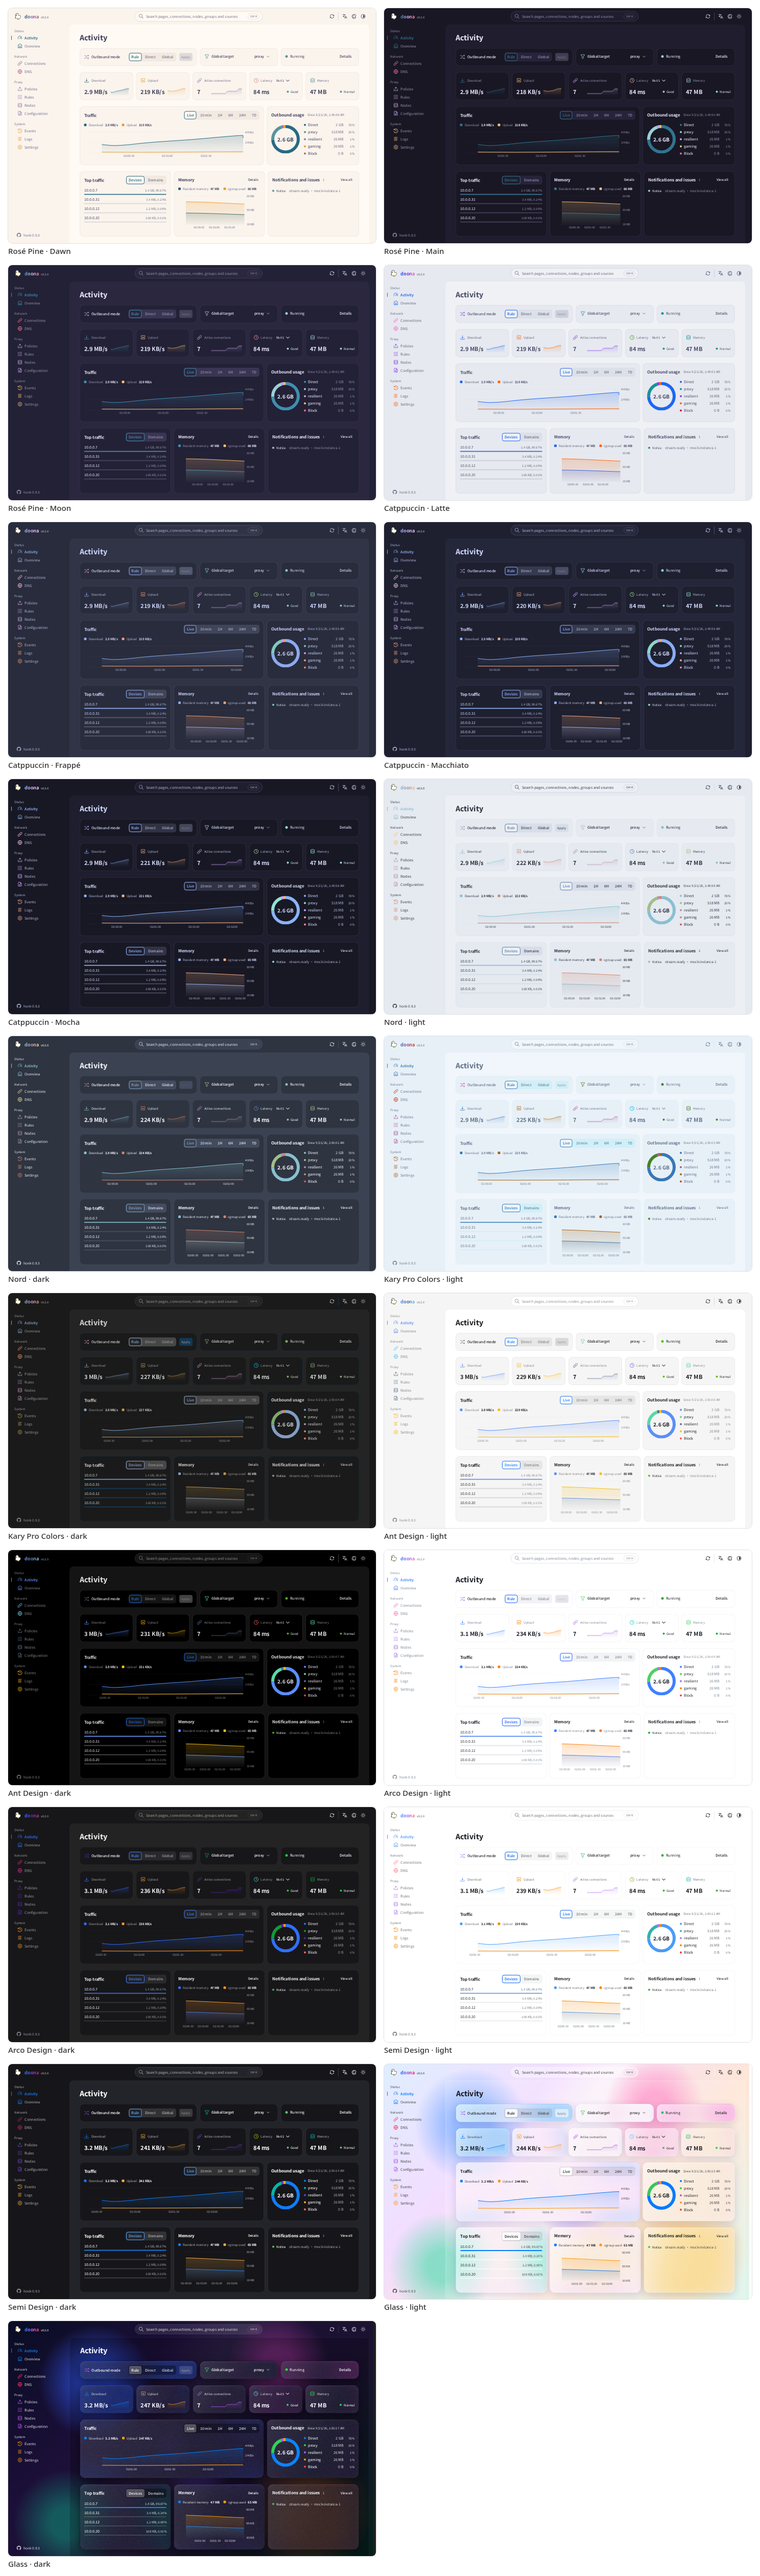
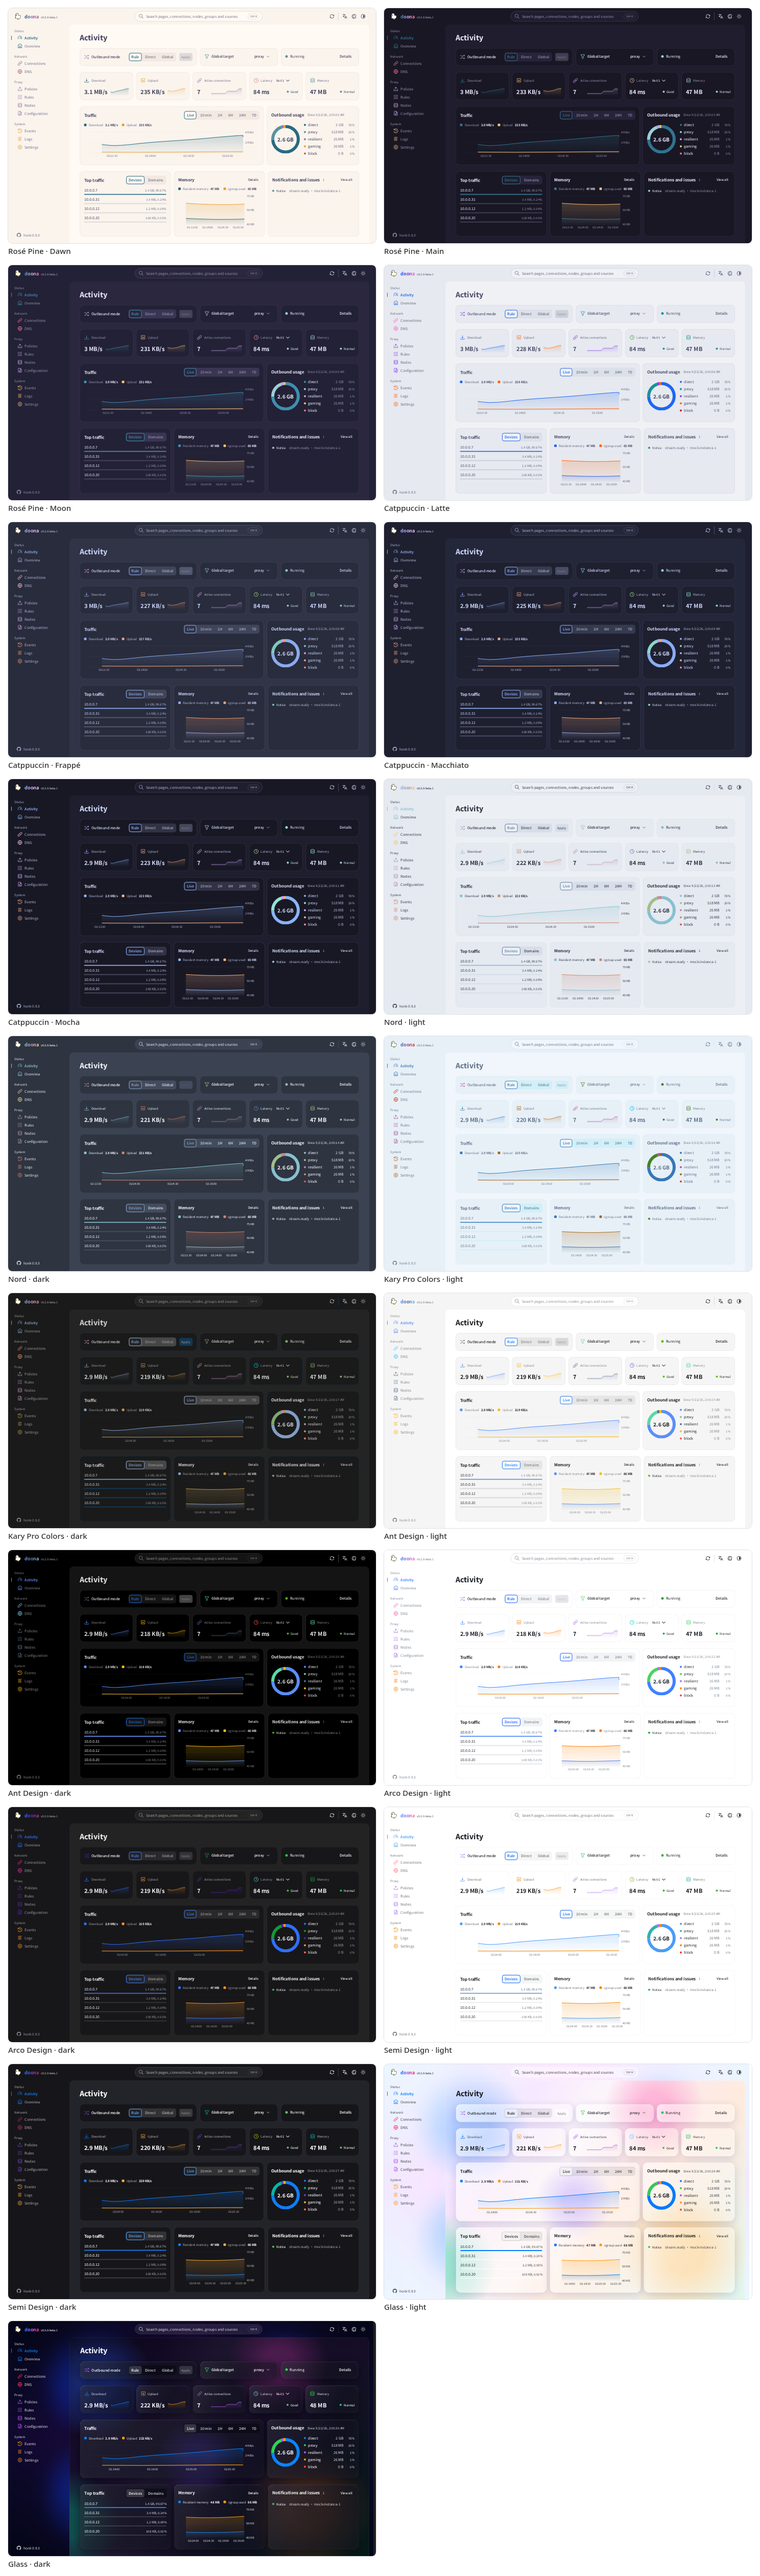
docs: regenerate the README screenshots as WebP
三種語言的活動、策略、規則頁與配色總覽都從目前的建置重新擷取；規則頁改截分流總覽。

diff --git a/README.md b/README.md
@@ -17,7 +17,7 @@ English · [简体中文](README.zh-CN.md) · [繁體中文](README.zh-TW.md)
 
 doona is a static web UI for the native API the daeuniverse engines share: honk today, dae once it implements the same contract. The engine serves it itself or any web server does; it shows what the engine is doing and manages nodes, groups, routing rules and configuration files.
 
-![The activity page](docs/screenshots/en/activity-light.png)
+![The activity page](docs/screenshots/en/activity-light.webp)
 
 <details>
 <summary><strong>Every palette</strong></summary>
@@ -107,7 +107,7 @@ Every configuration write goes through the engine: doona sends the hash it read 
 
 ## Pages
 
-<img src="docs/screenshots/en/policies-light.png" alt="The policies page" width="100%">
+<img src="docs/screenshots/en/policies-light.webp" alt="The policies page" width="100%">
 
 | Page          | Shows                                                                                                                                                                                        | Needs                               |
 | ------------- | -------------------------------------------------------------------------------------------------------------------------------------------------------------------------------------------- | ----------------------------------- |
@@ -125,7 +125,7 @@ Every configuration write goes through the engine: doona sends the hash it read 
 
 Every page remains in navigation. A page is marked unavailable only when every resource listed for it in [registry.ts](src/shell/registry.ts) is unavailable; opening it shows an unavailable notice. `Ctrl K` searches pages, connections, nodes, groups, rules and sources from anywhere.
 
-<img src="docs/screenshots/en/rules-light.png" alt="The rules page" width="100%">
+<img src="docs/screenshots/en/rules-light.webp" alt="The rules page" width="100%">
 
 ## Data and settings
 
@@ -144,7 +144,7 @@ The saved theme and language are applied before the first paint, so a reload doe
 
 Over HTTPS or on localhost a service worker precaches the application shell and caches fonts and icons, so the pages open offline and the site can be installed as an app. API responses are never cached. See [SECURITY.md](SECURITY.md) for reporting a vulnerability.
 
-![The activity page in dark mode](docs/screenshots/en/activity-dark.png)
+![The activity page in dark mode](docs/screenshots/en/activity-dark.webp)
 
 ## Development
 
